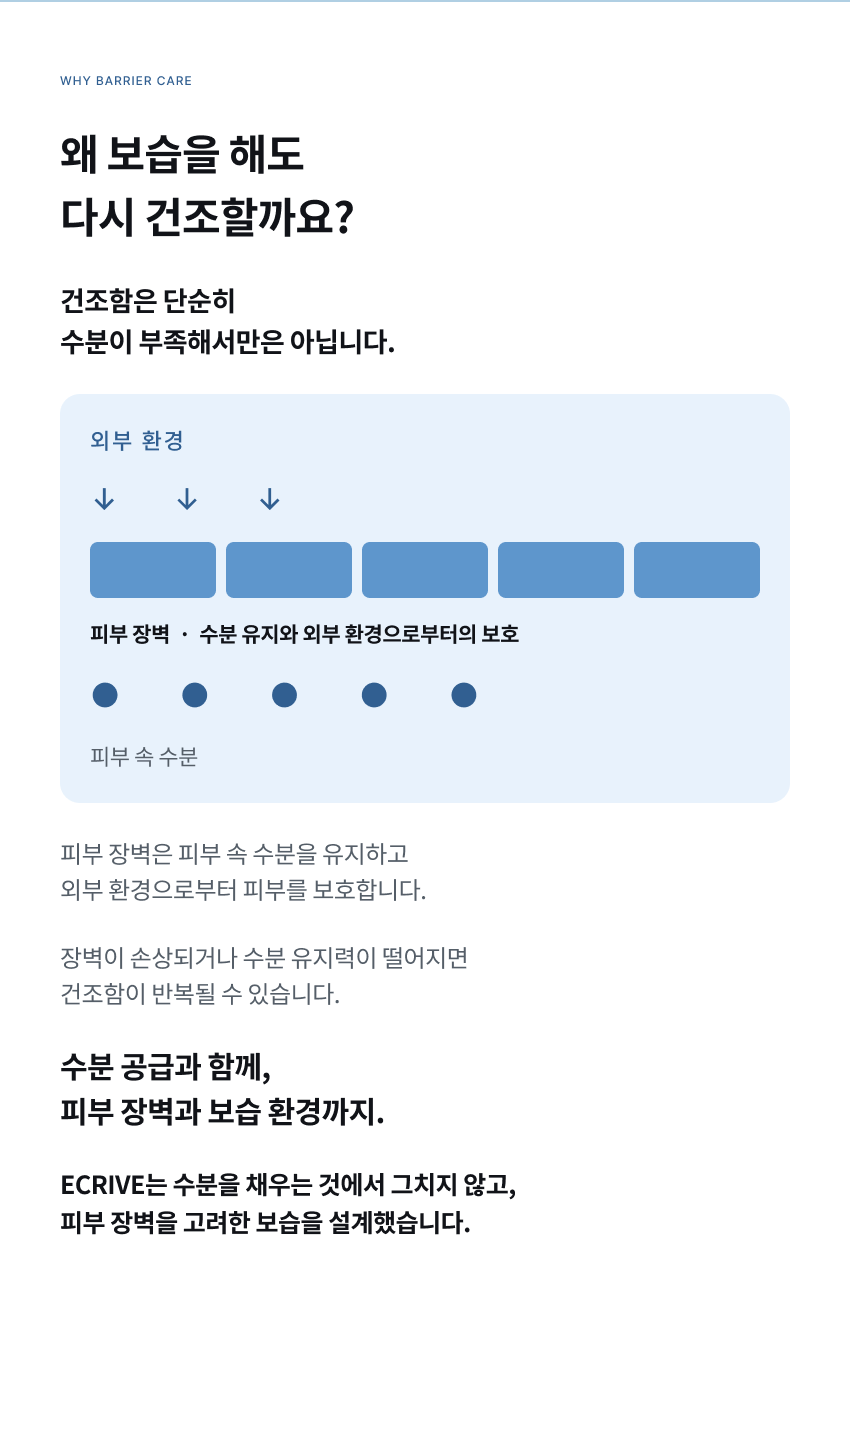
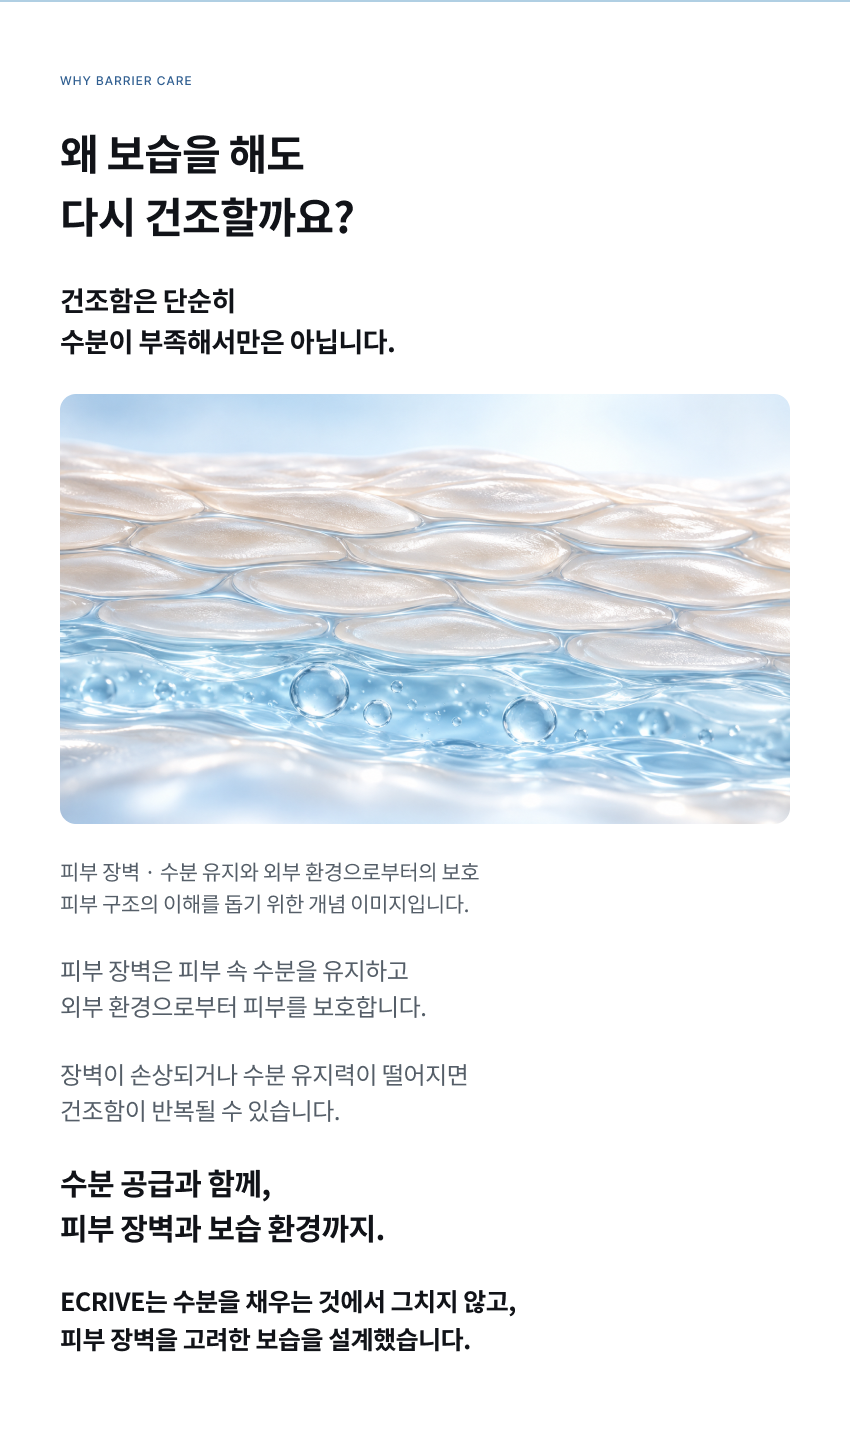
Replace ECRIVE barrier diagram with 3D artwork and prevent mobile overlays

Changed region(s): [[0.0612, 0.2483, 0.9482, 0.7759], [0.0612, 0.8069, 0.6118, 0.931]]

diff --git a/resole-lotion-demo/product/ecrive-barrier-lotion.html b/resole-lotion-demo/product/ecrive-barrier-lotion.html
@@ -19,6 +19,10 @@
     .ecrive-motion .motion-tile { position: absolute; overflow: hidden; border-radius: 4.5% / 6.4%; }
     .ecrive-motion video { width: 100%; height: 100%; display: block; object-fit: cover; }
     .ecrive-motion .motion-label { position: absolute; bottom: 3.2%; left: 2.2%; color: white; background: #52606b66; font: 500 clamp(6px, 1.2vw, 12px)/1.5 sans-serif; padding: 0 7px; border-radius: 3px; pointer-events: none; }
+    @media (max-width: 900px) {
+      .ecrive-product-page .store-header, .ecrive-product-page .detail-tabs, .ecrive-product-page .mobile-buybar { position: static; }
+      body.ecrive-product-page { padding-bottom: 0; }
+    }
   </style>
 </head>
 <body class="product-page ecrive-product-page">
@@ -60,20 +64,20 @@
     </section>
     <nav class="detail-tabs store-shell"><a class="active" href="#detail">상세페이지</a><a href="#info">프로젝트 정보</a><a href="#faq">안내</a></nav>
     <section id="detail" class="detail ecrive-detail"><div class="detail-stack">
-<img class="detail-image" src="../assets/ecrive-barrier-lotion/detail/p01.png?v=20261020-r1" alt="ECRIVE 상세페이지 1" width="850" height="1200" loading="lazy" />
-<img class="detail-image" src="../assets/ecrive-barrier-lotion/detail/p02.png?v=20261020-r1" alt="ECRIVE 상세페이지 2" width="850" height="1200" loading="lazy" />
-<img class="detail-image" src="../assets/ecrive-barrier-lotion/detail/p03.png?v=20261020-r1" alt="ECRIVE 상세페이지 3" width="850" height="1450" loading="lazy" />
-<img class="detail-image" src="../assets/ecrive-barrier-lotion/detail/p04.png?v=20261020-r1" alt="ECRIVE 상세페이지 4" width="850" height="1200" loading="lazy" />
-<img class="detail-image" src="../assets/ecrive-barrier-lotion/detail/p05.png?v=20261020-r1" alt="ECRIVE 상세페이지 5" width="850" height="1200" loading="lazy" />
-<img class="detail-image" src="../assets/ecrive-barrier-lotion/detail/p06.png?v=20261020-r1" alt="ECRIVE 상세페이지 6" width="850" height="1950" loading="lazy" />
-<img class="detail-image" src="../assets/ecrive-barrier-lotion/detail/p07.png?v=20261020-r1" alt="ECRIVE 상세페이지 7" width="850" height="1200" loading="lazy" />
-<div class="ecrive-motion"><img class="detail-image" src="../assets/ecrive-barrier-lotion/detail/p08.png?v=20261020-r1" alt="ECRIVE 상세페이지 8" width="850" height="1200" loading="lazy" />
+<img class="detail-image" src="../assets/ecrive-barrier-lotion/detail/p01.png?v=20261022-r1" alt="ECRIVE 상세페이지 1" width="850" height="1200" loading="lazy" />
+<img class="detail-image" src="../assets/ecrive-barrier-lotion/detail/p02.png?v=20261022-r1" alt="ECRIVE 상세페이지 2" width="850" height="1200" loading="lazy" />
+<img class="detail-image" src="../assets/ecrive-barrier-lotion/detail/p03.png?v=20261022-r1" alt="ECRIVE 상세페이지 3" width="850" height="1450" loading="lazy" />
+<img class="detail-image" src="../assets/ecrive-barrier-lotion/detail/p04.png?v=20261022-r1" alt="ECRIVE 상세페이지 4" width="850" height="1200" loading="lazy" />
+<img class="detail-image" src="../assets/ecrive-barrier-lotion/detail/p05.png?v=20261022-r1" alt="ECRIVE 상세페이지 5" width="850" height="1200" loading="lazy" />
+<img class="detail-image" src="../assets/ecrive-barrier-lotion/detail/p06.png?v=20261022-r1" alt="ECRIVE 상세페이지 6" width="850" height="1950" loading="lazy" />
+<img class="detail-image" src="../assets/ecrive-barrier-lotion/detail/p07.png?v=20261022-r1" alt="ECRIVE 상세페이지 7" width="850" height="1200" loading="lazy" />
+<div class="ecrive-motion"><img class="detail-image" src="../assets/ecrive-barrier-lotion/detail/p08.png?v=20261022-r1" alt="ECRIVE 상세페이지 8" width="850" height="1200" loading="lazy" />
 <div class="motion-tile" style="left:7.05882353%;top:20.91666667%;width:42.00000000%;height:20.83333333%"><video autoplay loop muted playsinline controls preload="metadata" aria-label="01 PUMP 로션 사용 영상"><source src="../assets/ecrive-barrier-lotion/video/01pump.mp4?v=20260930-r1" type="video/mp4"></video><span class="motion-label">01 PUMP</span></div>
 <div class="motion-tile" style="left:50.94117647%;top:20.91666667%;width:42.00000000%;height:20.83333333%"><video autoplay loop muted playsinline controls preload="metadata" aria-label="02 ARM 로션 사용 영상"><source src="../assets/ecrive-barrier-lotion/video/02arm.mp4?v=20260930-r1" type="video/mp4"></video><span class="motion-label">02 ARM</span></div>
 <div class="motion-tile" style="left:7.05882353%;top:43.08333333%;width:42.00000000%;height:20.83333333%"><video autoplay loop muted playsinline controls preload="metadata" aria-label="03 LEG 로션 사용 영상"><source src="../assets/ecrive-barrier-lotion/video/03leg.mp4?v=20260930-r1" type="video/mp4"></video><span class="motion-label">03 LEG</span></div>
 <div class="motion-tile" style="left:50.94117647%;top:43.08333333%;width:42.00000000%;height:20.83333333%"><video autoplay loop muted playsinline controls preload="metadata" aria-label="04 ELBOW 로션 사용 영상"><source src="../assets/ecrive-barrier-lotion/video/04elbow.mp4?v=20260930-r1" type="video/mp4"></video><span class="motion-label">04 ELBOW</span></div></div>
-<img class="detail-image" src="../assets/ecrive-barrier-lotion/detail/p09.png?v=20261020-r1" alt="ECRIVE 상세페이지 9" width="850" height="1200" loading="lazy" />
-<img class="detail-image" src="../assets/ecrive-barrier-lotion/detail/p10.png?v=20261020-r1" alt="ECRIVE 상세페이지 10" width="850" height="3980" loading="lazy" />
+<img class="detail-image" src="../assets/ecrive-barrier-lotion/detail/p09.png?v=20261022-r1" alt="ECRIVE 상세페이지 9" width="850" height="1200" loading="lazy" />
+<img class="detail-image" src="../assets/ecrive-barrier-lotion/detail/p10.png?v=20261022-r1" alt="ECRIVE 상세페이지 10" width="850" height="3980" loading="lazy" />
 </div></section>
     <section id="info" class="info-section store-shell detail-narrow"><h2>프로젝트 정보</h2><div class="info-grid"><div><span>브랜드</span><strong>ECRIVE</strong></div><div><span>제품명</span><strong>배리어 로션</strong></div><div><span>용량</span><strong>300 mL / 10.14 fl. oz.</strong></div></div></section>
     <section id="faq" class="faq store-shell detail-narrow"><h2>안내</h2><details open><summary>이 페이지는 실제 판매 페이지인가요?</summary><p>본 페이지는 상세페이지 디자인 포트폴리오 시안이며 실제 결제는 제공되지 않습니다.</p></details></section>

diff --git a/resole-lotion-demo/index.html b/resole-lotion-demo/index.html
@@ -54,8 +54,8 @@
       <div class="store-section-head"><div><p class="section-kicker">NEW ARRIVAL</p><h2>새롭게 만나는 RESOLE</h2></div><a href="#all">전체보기 <span>→</span></a></div>
       <div class="product-rail" aria-label="신상품 목록">
         <article class="product-card">
-          <a href="product/ecrive-barrier-lotion.html?v=20261020-r1" class="product-image-wrap"><span class="card-badge mist">NEW</span><img src="assets/ecrive-barrier-lotion/shop/01-copy-launch.jpg?v=20260928-r1" alt="ECRIVE 배리어 로션 300 mL" /></a>
-          <div class="product-card-body"><p class="product-brand">ECRIVE</p><a href="product/ecrive-barrier-lotion.html?v=20261020-r1" class="product-name">배리어 로션 300 mL</a><div class="product-price"><strong>34,900원</strong><del>39,000원</del></div><p class="product-meta">바르고 또 발라도, 반복되는 건조함을 위한 보습</p></div>
+          <a href="product/ecrive-barrier-lotion.html?v=20261022-r1" class="product-image-wrap"><span class="card-badge mist">NEW</span><img src="assets/ecrive-barrier-lotion/shop/01-copy-launch.jpg?v=20260928-r1" alt="ECRIVE 배리어 로션 300 mL" /></a>
+          <div class="product-card-body"><p class="product-brand">ECRIVE</p><a href="product/ecrive-barrier-lotion.html?v=20261022-r1" class="product-name">배리어 로션 300 mL</a><div class="product-price"><strong>34,900원</strong><del>39,000원</del></div><p class="product-meta">바르고 또 발라도, 반복되는 건조함을 위한 보습</p></div>
         </article>
         <article class="product-card">
           <a href="product/goyobam.html?v=20260908-r10" class="product-image-wrap"><span class="card-badge mist">NEW</span><img src="assets/goyobam/shop/thumb01.png?v=20260827-r1" alt="ROOTEDIT GOYOBAM 고요밤 150 ml" /></a>
@@ -86,7 +86,7 @@
     <section id="all" class="store-section store-shell compact-bottom">
       <div class="store-section-head"><div><p class="section-kicker">ALL PRODUCTS</p><h2>전체 상품</h2></div></div>
       <div class="all-product-grid">
-        <article class="product-card"><a href="product/ecrive-barrier-lotion.html?v=20261020-r1" class="product-image-wrap"><img src="assets/ecrive-barrier-lotion/shop/06-image-main.jpg?v=20260928-r1" alt="ECRIVE 배리어 로션 300 mL" /></a><div class="product-card-body"><p class="product-brand">ECRIVE</p><a href="product/ecrive-barrier-lotion.html?v=20261020-r1" class="product-name">배리어 로션 300 mL</a><div class="product-price"><strong>34,900원</strong><del>39,000원</del></div></div></article>
+        <article class="product-card"><a href="product/ecrive-barrier-lotion.html?v=20261022-r1" class="product-image-wrap"><img src="assets/ecrive-barrier-lotion/shop/06-image-main.jpg?v=20260928-r1" alt="ECRIVE 배리어 로션 300 mL" /></a><div class="product-card-body"><p class="product-brand">ECRIVE</p><a href="product/ecrive-barrier-lotion.html?v=20261022-r1" class="product-name">배리어 로션 300 mL</a><div class="product-price"><strong>34,900원</strong><del>39,000원</del></div></div></article>
         <article class="product-card"><a href="product/goyobam.html?v=20260908-r10" class="product-image-wrap"><img src="assets/goyobam/shop/thumb06.png?v=20260827-r1" alt="ROOTEDIT GOYOBAM 고요밤 150 ml" /></a><div class="product-card-body"><p class="product-brand">ROOTEDIT</p><a href="product/goyobam.html?v=20260908-r10" class="product-name">GOYOBAM 고요밤 150 ml</a><div class="product-availability"><strong>PORTFOLIO</strong><span>상세 보기</span></div></div></article>
         <article class="product-card"><a href="product/cream-mist.html" class="product-image-wrap"><img src="assets/cream-mist/shop/thumb05.jpg" alt="RESOLE 크림 미스트 80 mL" /></a><div class="product-card-body"><p class="product-brand">RESOLE</p><a href="product/cream-mist.html" class="product-name">크림 미스트 80 mL</a><div class="product-price"><strong>23,000원</strong><span>30%</span></div></div></article>
         <article class="product-card"><a href="product/radiance-body-mist.html" class="product-image-wrap"><img src="assets/body-mist/shop/S-06_thumb.png" alt="리솔90 레디언스 바디미스트 100 mL" /></a><div class="product-card-body"><p class="product-brand">RESOLE90</p><a href="product/radiance-body-mist.html" class="product-name">레디언스 바디미스트 100 mL</a><div class="product-availability"><strong>런칭 기념</strong><span>혜택 확인</span></div></div></article>
